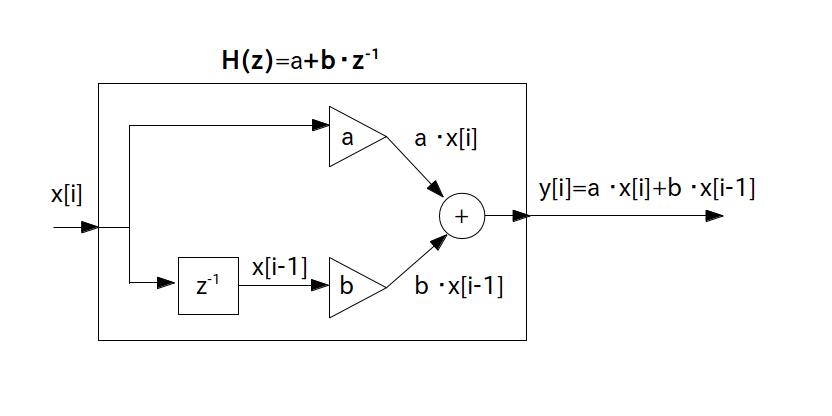
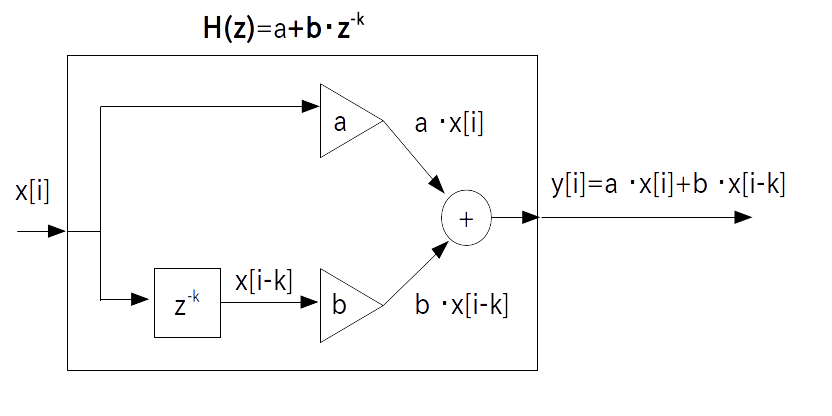
d-filter更新

diff --git a/docs/activity/d-filter/text01/practice.html b/docs/activity/d-filter/text01/practice.html
@@ -27,75 +27,46 @@
 <br>
 <h2><a href="./page01.html">1. ディジタルフィルタとは</a></h2>
 
-<p>
-無し
-</p>
-
-<br>
 <h2><a href="./page02.html">2. ディジタル線形フィルタとは</a></h2>
 
-<p>
-無し
-</p>
-
-<br>
 <h2><a href="./page03.html">3. インパルス応答</a></h2>
 
-<p>
-無し
-</p>
-
-<br>
 <h2><a href="./page04.html">4. 伝達関数</a></h2>
 
-<p>
-無し
-</p>
-
-<br>
 <h2><a href="./page05.html">5. ブロック図</a></h2>
 
-<p>
-無し
-</p>
-
-<br>
 <h2><a href="./page06.html">6. 基本パーツ</a></h2>
 
-<p>
-無し
-</p>
-
-<br>
 <h2><a href="./page07.html">7. フィルタの合成</a></h2>
 
-<p>
-無し
-</p>
-
-<br>
 <h2><a href="./page08.html">8. フィードバック機構</a></h2>
 
-<p>
-無し
-</p>
-
-<br>
 <h2><a href="./page09.html">9. 伝達関数からブロック図を描く</a></h2>
 
 <br>
 <p>
-<input type="checkbox"><b>演習1-1 (個人PC、45分):</b> 例 4 と 5 を参考にし、伝達関数 $\textrm{H}(z) = a + b \cdot z^{-k}$ を持つフィルタ(ディレイ・フィルタと言います)を使って自分の声にディレイ効果をかけてみましょう。
+<input type="checkbox"><b>演習1-1 (個人PC、45分):</b> <a href="./page06.html">6ページ</a>と<a href="./page09.html">9ページの例 4 と 5</a>を参考にし、伝達関数 $\textrm{H}(z) = a + b \cdot z^{-k}$ を持つフィルタ(ディレイ・フィルタと言います)を使って自分の声にディレイ効果をかけてみましょう。
 </p>
 <div class="olradio">
 <p>
 <span class="olradio"><input type="radio" name="p1"></span> 適当なフォルダに移動します。
 <br>
 <span class="olradio"><input type="radio" name="p1"></span> マイクを PC の端子に繋ぎます。
+</p>
+<p>
+※ 以下、Linux を使っているか Windows を使っているかで演習方法が異なります。
 <br>
+※ Linux を使用している場合は以下の(3)〜(12)に従って下さい。
+<br>
+※ Windows を使用している場合は以下の(13)〜に従って下さい。 
+</p>
+<p>
+(Linux の場合)
+</p>
+<p>
 <span class="olradio"><input type="radio" name="p1"></span> 「 alsamixer 」を起動し、F4 を押して録音コントローラに切り替えて Mic Boost を 50 程度、Capture の音量を 80 程度に変更して下さい。
 <br>
-<span class="olradio"><input type="radio" name="p1"></span> 「 arecord -d 10 -f S16_LE -c 1 -r 8000 test.wav 」(サンプリング周波数 $f_s = 8000$ [Hz] で 10 秒間録音の意味)を実行して声を録音して下さい。すると「 test.wav 」という Wave形式音声ファイルが出来ます。
+<span class="olradio"><input type="radio" name="p1"></span> 「 arecord -d 10 -f S16_LE -c 1 -r 8000 test.wav 」(サンプリング周波数 $f_s$ = 8000 [Hz] 、モノラル、Wave 形式で 10 秒間録音の意味)を実行して声を録音して下さい。すると「 test.wav 」という Wave形式音声ファイルが出来ます。
 <br>
 <span class="olradio"><input type="radio" name="p1"></span> 「 aplay test.wav 」を実行して録音出来ていることを確認して下さい。
 </p>
@@ -106,9 +77,7 @@
 <span class="olradio"><input type="radio" name="p1"></span> 以下のテンプレートファイルを test.wav と同じフォルダにダウンロードして下さい。 
 </p>
 <p>
-<a href="./src/template01-1.cpp">UTF-8版</a> (template01-1.cpp)
-<br>
-<a href="./src/template01-1-SJIS.cpp">シフトJIS版</a> (template01-1-SJIS.cpp)
+<a href="./src/template01-1.cpp">Linux 版</a> (template01-1.cpp)
 </p>
 <p>
 <span class="olradio"><input type="radio" name="p1"></span> テンプレートファイルの記述に従って ? の部分を上から穴埋めしてプログラムを完成させて下さい。
@@ -118,6 +87,32 @@
 <span class="olradio"><input type="radio" name="p1"></span> 「./a.out」を実行すると「 out.wav 」という  Wave形式音声ファイルが出来ます。
 <br>
 <span class="olradio"><input type="radio" name="p1"></span> 「 aplay out.wav 」を実行してディレイ効果がかかっている事を確認して下さい。
+<br>
+<span class="olradio"><input type="radio" name="p1"></span>  パラメータ(a,b,delay)を色々変えると効果が色々変化することを確認して下さい。
+<br>
+<span class="olradio"><input type="radio" name="p1"></span>  指定場所に「ソースコード」を貼り付けて下さい。
+</p>
+<p>
+(Windows の場合)
+</p>
+<p>
+<span class="olradio"><input type="radio" name="p1"></span> 適当なアプリを使い、サンプリング周波数 $f_s$ = 11025 [Hz] 、モノラル、Wave 形式で 10 秒間録音して「 test.wav 」という名前の音声ファイルを作成して下さい。
+<br>
+<span class="olradio"><input type="radio" name="p1"></span> 録音した音が小さい場合はミキサーを起動してボリューム調整して下さい。
+<br>
+<span class="olradio"><input type="radio" name="p1"></span> 以下のテンプレートファイルを test.wav と同じフォルダにダウンロードして下さい。 
+</p>
+<p>
+<a href="./src/template01-1-SJIS.cpp">Windows 版</a> (template01-1-SJIS.cpp)
+</p>
+<p>
+<span class="olradio"><input type="radio" name="p1"></span> テンプレートファイルの記述に従って ? の部分を上から穴埋めしてプログラムを完成させて下さい。
+<br>
+<span class="olradio"><input type="radio" name="p1"></span> 適当なコンパイラでコンパイルして下さい。
+<br>
+<span class="olradio"><input type="radio" name="p1"></span> プログラムを実行すると「 out.wav 」という  Wave形式音声ファイルが出来ます。
+<br>
+<span class="olradio"><input type="radio" name="p1"></span> 「 out.wav 」を適当なアプリで再生してディレイ効果がかかっている事を確認して下さい。
 <br>
 <span class="olradio"><input type="radio" name="p1"></span>  パラメータ(a,b,delay)を色々変えると効果が色々変化することを確認して下さい。
 <br>
@@ -139,12 +134,12 @@
 <span class="olradio"><input type="radio" name="p2"></span> 以下のテンプレートファイルを test.wav と同じフォルダにダウンロードして下さい。 
 </p>
 <p>
-<a href="./src/template01-2.cpp">UTF-8版</a> (template01-2.cpp)
+<a href="./src/template01-2.cpp">Linux 版</a> (template01-2.cpp)
 <br>
-<a href="./src/template01-2-SJIS.cpp">シフトJIS版</a> (template01-2-SJIS.cpp)
+<a href="./src/template01-2-SJIS.cpp">Windows 版</a> (template01-2-SJIS.cpp)
 </p>
 <p>
-<span class="olradio"><input type="radio" name="p2"></span> テンプレートファイルの記述と下のFIRローパスフィルタ係数の求め方に従って ? の部分を上から穴埋めしてプログラムを完成させて下さい。なおデフォルト値はフィルタ次数(タップ数) $\textrm{L} = 63$、カットオフ周波数 $f_c = 1000$ [Hz] とします。
+<span class="olradio"><input type="radio" name="p2"></span> テンプレートファイルの記述と下のFIRローパスフィルタ係数の求め方に従って ? の部分を上から穴埋めしてプログラムを完成させて下さい。なおデフォルト値はフィルタ次数(タップ数) $\textrm{L}$ = 63、カットオフ周波数 $f_c$ = 1000 [Hz] とします。
 </p>
 
 <div class="info">

diff --git a/docs/activity/d-filter/text01/page09.html b/docs/activity/d-filter/text01/page09.html
@@ -47,8 +47,7 @@
 <div class="info">
 <input type="checkbox"><b>例1のブロック図: </b>
 
-<p>
-</p>
+<p>　</p>
 
 <img src="./img/page09-fig1.png" alt="">
 
@@ -86,8 +85,7 @@ y[i] = (a * b) *  x[i]
 <div class="info">
 <input type="checkbox"><b>例2のブロック図: </b>
 
-<p>
-</p>
+<p>　</p>
 
 <img src="./img/page09-fig2.png" alt="">
 
@@ -134,8 +132,7 @@ y[i] = a * x[i-1]
 <div class="info">
 <input type="checkbox"><b>例 3 のブロック図: </b>
 
-<p>
-</p>
+<p>　</p>
 
 <img src="./img/page09-fig3.png" alt="">
 
@@ -174,8 +171,7 @@ y[i] = x[i-2]
 <div class="info">
 <input type="checkbox"><b>例 4 のブロック図: </b>
 
-<p>
-</p>
+<p>　</p>
 
 <img src="./img/page09-fig4.png" alt="">
 
@@ -195,26 +191,25 @@ y[i] = x[i-k]
 </div>
 
 <h3>
-(例5) $\textrm{H}(z) = a + b \cdot z^{-1}$ : 直列結合と並列結合の組み合わせ
+(例5) $\textrm{H}(z) = a + b \cdot z^{-k}$ : 直列結合と並列結合の組み合わせ
 </h3>
 
 \begin{align*}
-\textrm{H}(z) = a + b \cdot z^{-1}
+\textrm{H}(z) = a + b \cdot z^{-k}
 \end{align*}
 
 <p>
-という伝達関数を持つフィルタは乗算器 $\textrm{H}_1(z) = a$ と 乗算器 $b$  と遅延素子 $z^{-1}$ を直列結合した  $\textrm{H}_2(z) = b \cdot z^{-1}$ の並列結合と考えられます
+という伝達関数を持つフィルタは乗算器 $\textrm{H}_1(z) = a$ と 乗算器 $b$  と $k$ 時刻遅延素子 $z^{-k}$ を直列結合した  $\textrm{H}_2(z) = b \cdot z^{-k}$ の並列結合と考えられます
 </p>
 
 <p>
-この時のブロック図は次の通りです。$\textrm{H}_1(z) = a$ と $\textrm{H}_2(z) = b \cdot z^{-1}$ が加算器で結合されています。
+この時のブロック図は次の通りです。$\textrm{H}_1(z) = a$ と $\textrm{H}_2(z) = b \cdot z^{-k}$ が加算器で結合されています。
 </p>
 
 <div class="info">
 <input type="checkbox"><b>例5のブロック図: </b>
 
-<p>
-</p>
+<p>　</p>
 
 <img src="./img/page09-fig5.png" alt="">
 
@@ -228,7 +223,7 @@ y[i] = x[i-k]
 <input type="checkbox"><b>例5のプログラム表現: </b>
 
 <pre class="wrap">
-y[i] = a * x[i] + b * x[i-1]
+y[i] = a * x[i] + b * x[i-k]
 </pre>
 
 </div>
@@ -252,8 +247,7 @@ y[i] = a * x[i] + b * x[i-1]
 <div class="info">
 <input type="checkbox"><b>例6のブロック図(素直な描き方): </b>
 
-<p>
-</p>
+<p>　</p>
 
 <img src="./img/page09-fig6-1.png" alt="">
 
@@ -265,8 +259,7 @@ y[i] = a * x[i] + b * x[i-1]
 <div class="info">
 <input type="checkbox"><b>例6のブロック図(遅延素子を共通化した描き方): </b>
 
-<p>
-</p>
+<p>　</p>
 
 <img src="./img/page09-fig6-2.png" alt="">
 

diff --git a/docs/activity/d-filter/index.html b/docs/activity/d-filter/index.html
@@ -30,7 +30,7 @@
 <li><a href="../z/">アクティビティ: Z変換</a></li>
 </ol>
 <p>
-最終更新日: 2018/1/24
+最終更新日: 2018/1/29
 </p>
 </div>
 
